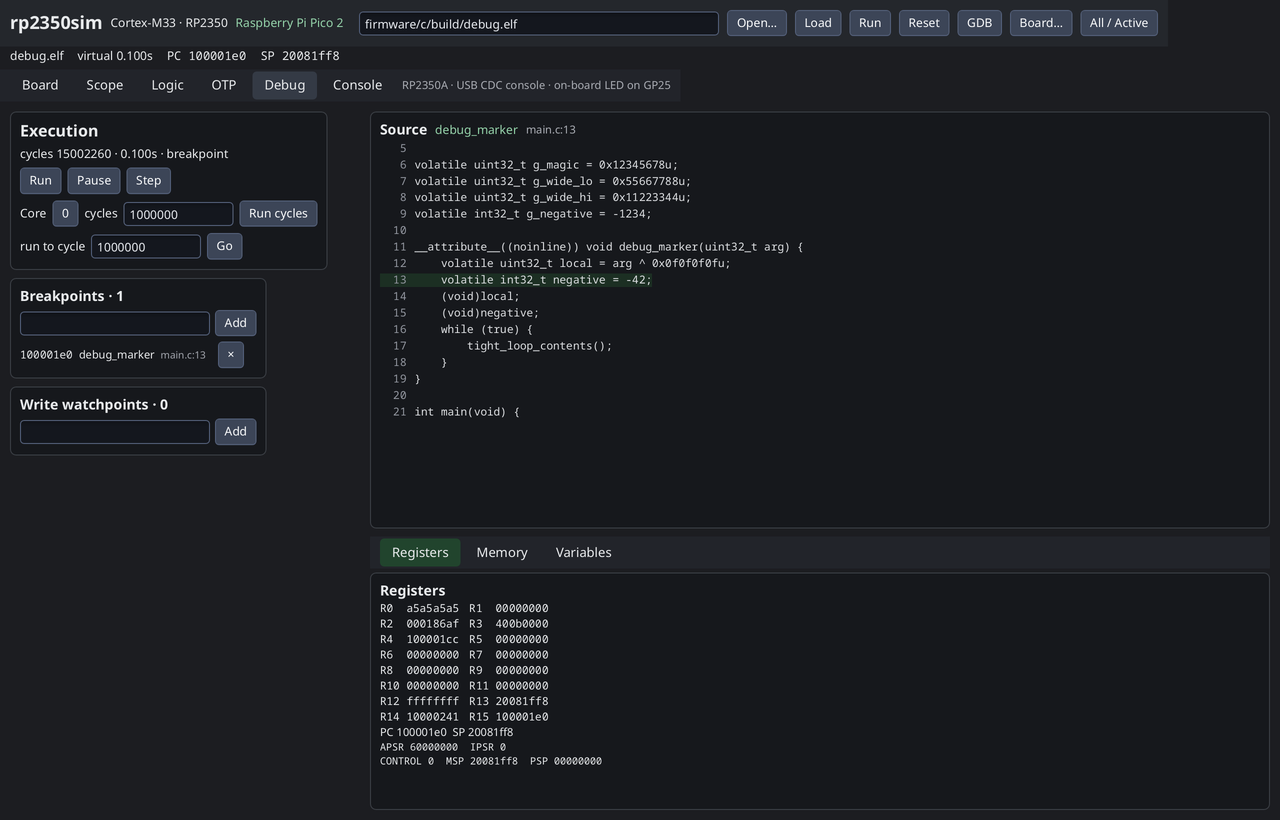
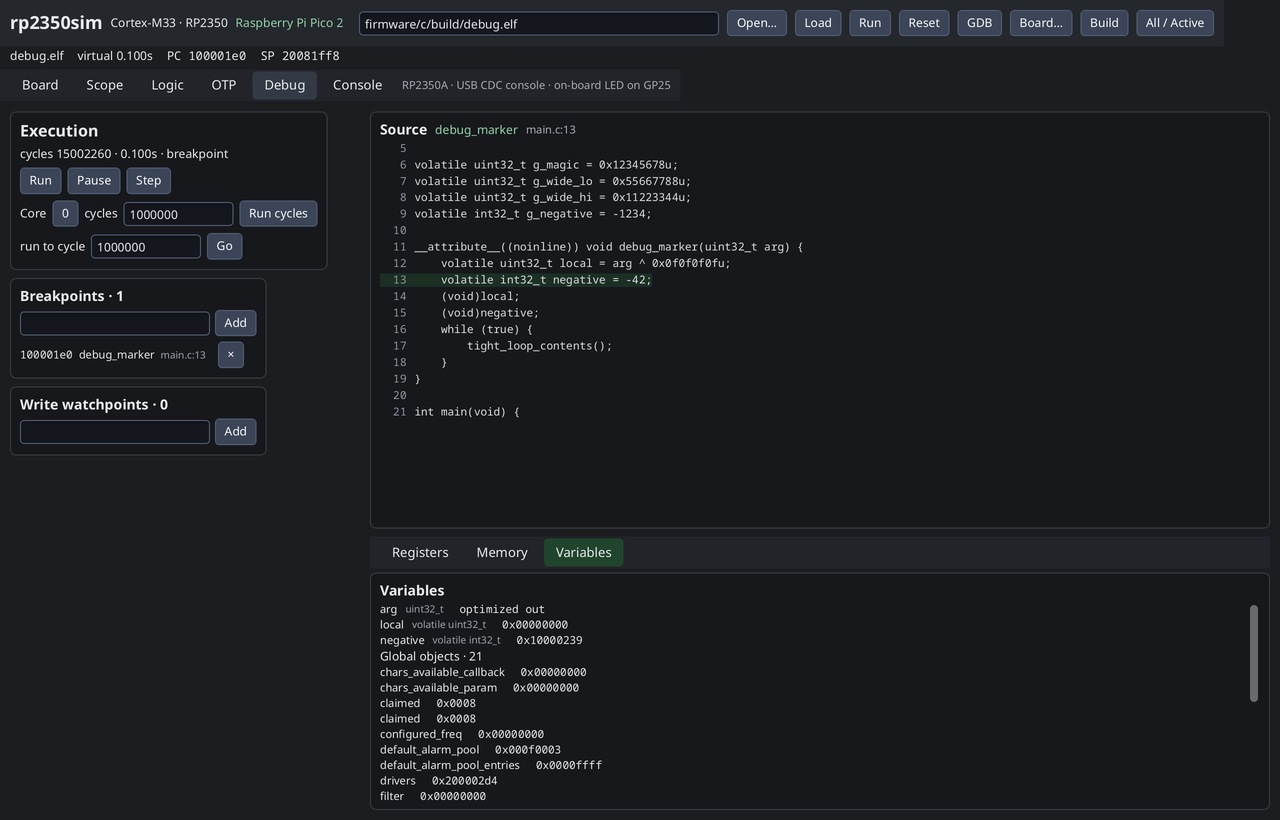
debug: list every global in a scrollable variables panel
Drop the 40-row cap and the "... more globals" message. The Variables tab now
shows all application globals in a viewport with its own scrollbar while the
title stays fixed. Underscore-prefixed linker/runtime symbols remain hidden and
the header reports how many application globals are listed. Refresh the debug
screenshot to show the variables view.

diff --git a/cmd/simui/debugui.go b/cmd/simui/debugui.go
@@ -323,26 +323,33 @@ func debugVariables(s DebugSnapshot) {
 	Container(Attrs(Grow(1), Expand, Gap(3), Pad(10), Corners(6), Background(220, 12, 10, 1),
 		BorderWidth(1), BorderColor(220, 8, 25, 1)), func() {
 		Label("Variables", FontSize(14), FontWeight(700))
-		ScrollOnInput()
-		ScrollBars()
-		if len(s.Locals) == 0 {
-			Label("no locals at this PC", FontSize(11), TextColor(220, 6, 62, 1))
-		}
-		for _, v := range s.Locals {
-			debugVariableRow(v)
-		}
-		Label("Global objects", FontSize(12), FontWeight(600))
-		for n, v := range s.Globals {
-			if strings.HasPrefix(v.Name, "_") {
-				continue
+		// The list can be long (TinyGo runtimes expose dozens of globals), so
+		// the header stays fixed and only the rows scroll.
+		Container(Attrs(Grow(1), Expand, Clip, Viewport, Gap(2)), func() {
+			ScrollOnInput()
+			ScrollBars()
+			if len(s.Locals) == 0 {
+				Label("no locals at this PC", FontSize(11), TextColor(220, 6, 62, 1))
 			}
-			if n >= 40 {
-				Label(fmt.Sprintf("… %d more globals", len(s.Globals)-n), FontSize(10),
-					TextColor(220, 6, 62, 1))
-				break
+			for _, v := range s.Locals {
+				debugVariableRow(v)
 			}
-			debugVariableRow(v)
-		}
+			globals := 0
+			for _, v := range s.Globals {
+				if !strings.HasPrefix(v.Name, "_") {
+					globals++
+				}
+			}
+			Label(fmt.Sprintf("Global objects · %d", globals), FontSize(12), FontWeight(600))
+			for _, v := range s.Globals {
+				// Underscore-prefixed entries are linker/runtime symbols, not
+				// application globals.
+				if strings.HasPrefix(v.Name, "_") {
+					continue
+				}
+				debugVariableRow(v)
+			}
+		})
 	})
 }
 

diff --git a/docs/debug.md b/docs/debug.md
@@ -42,7 +42,9 @@ rp2350sim -fw firmware.elf -seconds 2 -watch g_magic
     reads for ROM, flash, SRAM and PSRAM: it does not charge PSRAM latency and
     never reads a UART/SPI/I2C/FIFO register. **PC** and **SP** jump to the
     current locations.
-  - **Variables** evaluates the current function's locals and globals.
+  - **Variables** evaluates the current function's locals and global objects in
+    a scrollable list. All application globals are listed; underscore-prefixed
+    linker/runtime symbols are omitted.
 
 ## Variables and limitations
 
